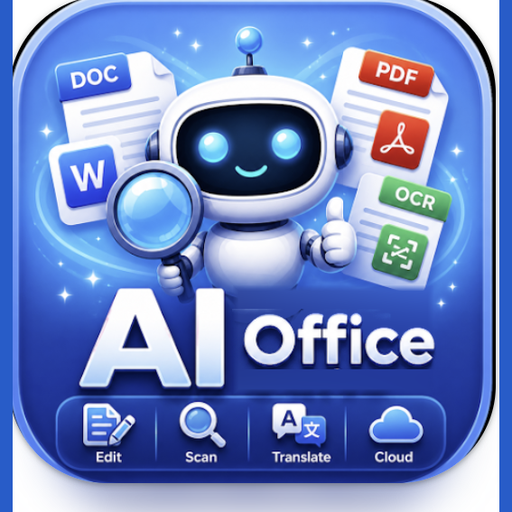
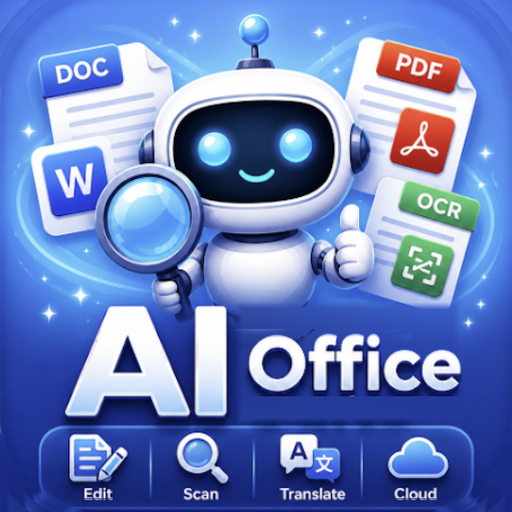
AIオフィス: アイコンの白い余白と外フチを除去、全面ブルーの正方形に

diff --git a/AXIA_AI_Office.html b/AXIA_AI_Office.html
@@ -7,7 +7,7 @@
 <!-- スマホのホーム画面アプリ化（PWA） -->
 <link rel="manifest" href="./office.webmanifest?v=3">
 <link rel="icon" type="image/png" sizes="192x192" href="./office-icon-192.png">
-<link rel="apple-touch-icon" sizes="180x180" href="./office-icon-180.png?v=2">
+<link rel="apple-touch-icon" sizes="180x180" href="./office-icon-180.png?v=3">
 <meta name="theme-color" content="#2b2440">
 <meta name="mobile-web-app-capable" content="yes">
 <meta name="apple-mobile-web-app-capable" content="yes">

diff --git a/office-sw.js b/office-sw.js
@@ -1,7 +1,7 @@
 /* AXIA AI Office — 最小のService Worker
    ・インストール（ホーム画面追加）を成立させるのが目的
    ・HTMLは常にネット優先（古い画面が残らんように）。落ちたときだけキャッシュ */
-const CACHE = 'axia-office-v3';
+const CACHE = 'axia-office-v4';
 const SHELL = ['./AXIA_AI_Office.html', './office.webmanifest', './office-icon-192.png', './office-icon-512.png'];
 
 self.addEventListener('install', e => {
